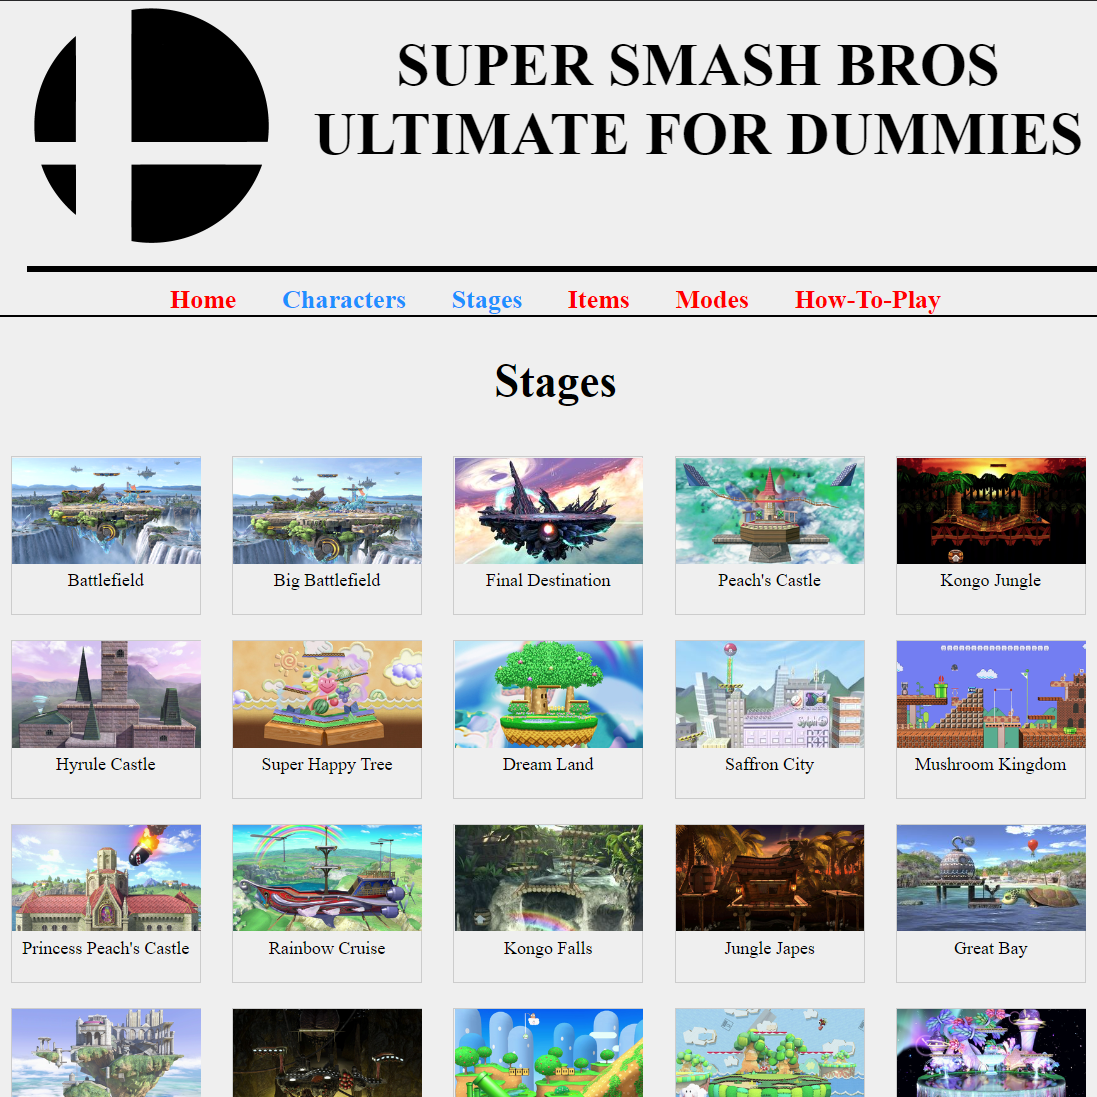
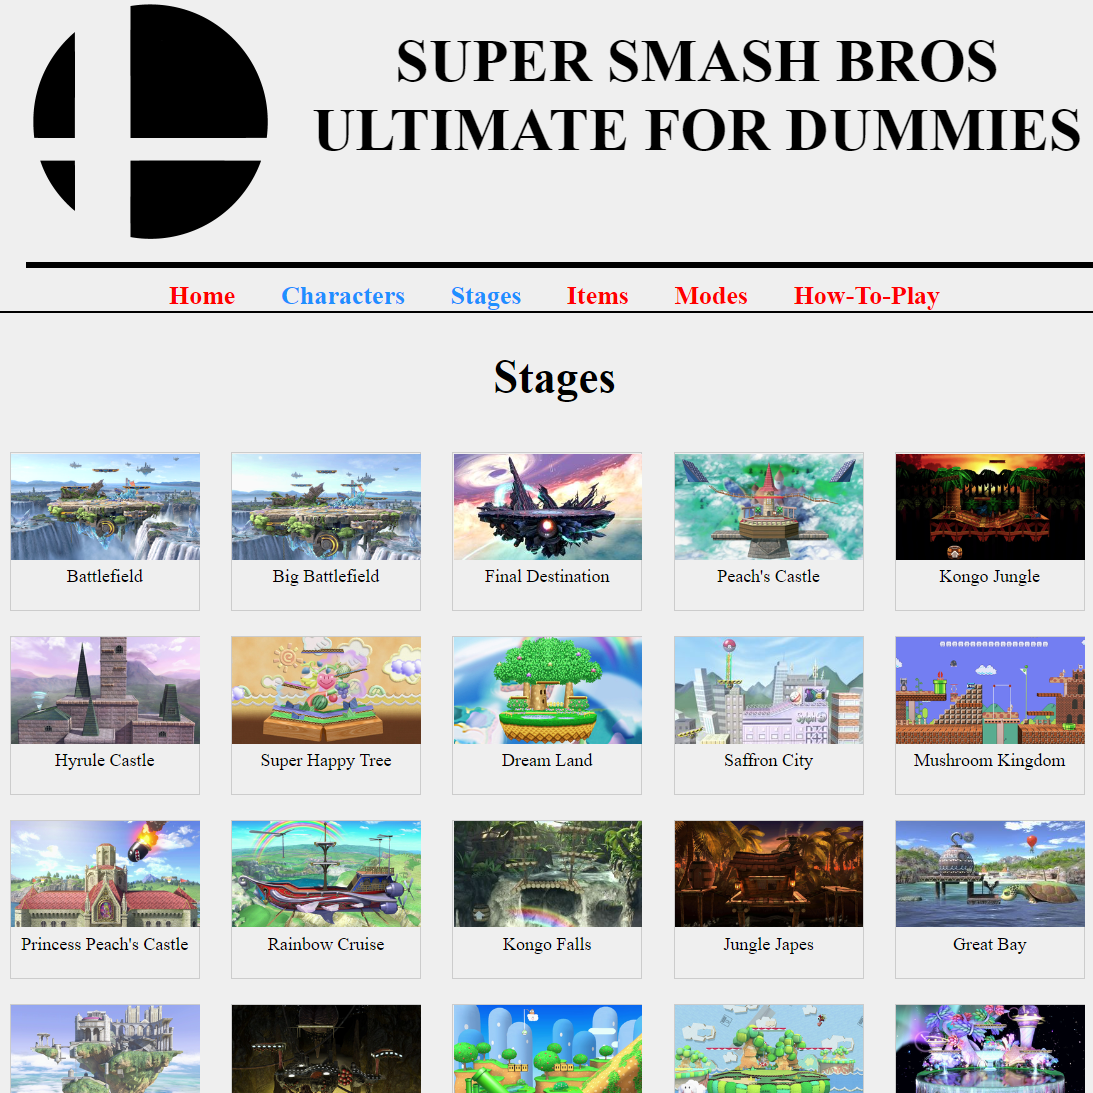
made portfolio background slightly brighter, replaced smash_website image to remove the black line on top of the image

diff --git a/src/components/Portfolio/Portfolio.css b/src/components/Portfolio/Portfolio.css
@@ -1,7 +1,7 @@
 #portfolio {
   padding-top: 100px;
   padding-bottom: 10px;
-  background-color: #f0f0f0;
+  background-color: #f6f6f6;
   min-height: 100px;
   overflow: hidden;
 }
